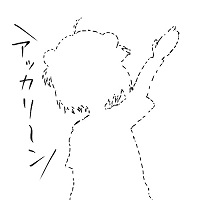
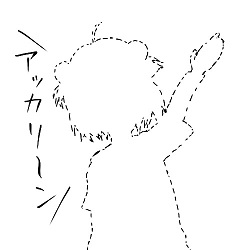
提高图片的上传质量

diff --git a/DRRR.Client/src/app/chat-rooms/chat-room/chat-room.component.ts b/DRRR.Client/src/app/chat-rooms/chat-room/chat-room.component.ts
@@ -265,18 +265,18 @@ export class ChatRoomComponent implements OnInit, OnDestroy {
       },
       preConfirm: () => {
         return new Promise((resolve, reject) => {
-          // 图片最大高度为180，最大宽度为320
+          // 图片最大高度为360，最大宽度为640
           const { height: croppedHeight, width: croppedWidth } = cropper.getCropBoxData();
-          let height = Math.min(croppedHeight, image.naturalHeight, 180);
+          let height = Math.min(croppedHeight, image.naturalHeight, 360);
           let width = croppedWidth / croppedHeight * height;
-          const widthTmp = Math.min(croppedWidth, image.naturalWidth, 320);
+          const widthTmp = Math.min(croppedWidth, image.naturalWidth, 640);
           if (width > widthTmp) {
             width = widthTmp;
             height = croppedHeight / croppedWidth * widthTmp;
           }
           const dataURL = cropper
             .getCroppedCanvas({ height, width })
-            .toDataURL('image/jpeg', 0.9);
+            .toDataURL('image/jpeg');
           this.chatRoomService.sendPicture(dataURL.split(',')[1])
             .then(() => resolve())
             .catch(error => reject(this.msg.getMessage('E004', '图片发送')));

diff --git a/DRRR.Client/src/app/user/user-profile/user-profile.component.ts b/DRRR.Client/src/app/user/user-profile/user-profile.component.ts
@@ -123,10 +123,10 @@ export class UserProfileComponent implements OnInit, OnDestroy {
           const thumbnailLength = Math.min(cropper.getCropBoxData().width, 150);
           dataURLOriginal = cropper
             .getCroppedCanvas({ height: croppedLength, width: croppedLength })
-            .toDataURL('image/jpeg', 1);
+            .toDataURL('image/jpeg');
           dataURLThumbnail = cropper
             .getCroppedCanvas({ height: thumbnailLength, width: thumbnailLength })
-            .toDataURL('image/jpeg', 0.9);
+            .toDataURL('image/jpeg');
           this.profileService
             .updateAvatar(this.payload.uid, dataURLOriginal, dataURLThumbnail)
             .subscribe(success => success ? resolve() :

diff --git a/DRRR.Client/src/styles.css b/DRRR.Client/src/styles.css
@@ -6,7 +6,7 @@
 
 .form-user .form-control {
   position: relative;
-  height: auto;
+  height: 44px;
   -webkit-box-sizing: border-box;
   -moz-box-sizing: border-box;
   box-sizing: border-box;
